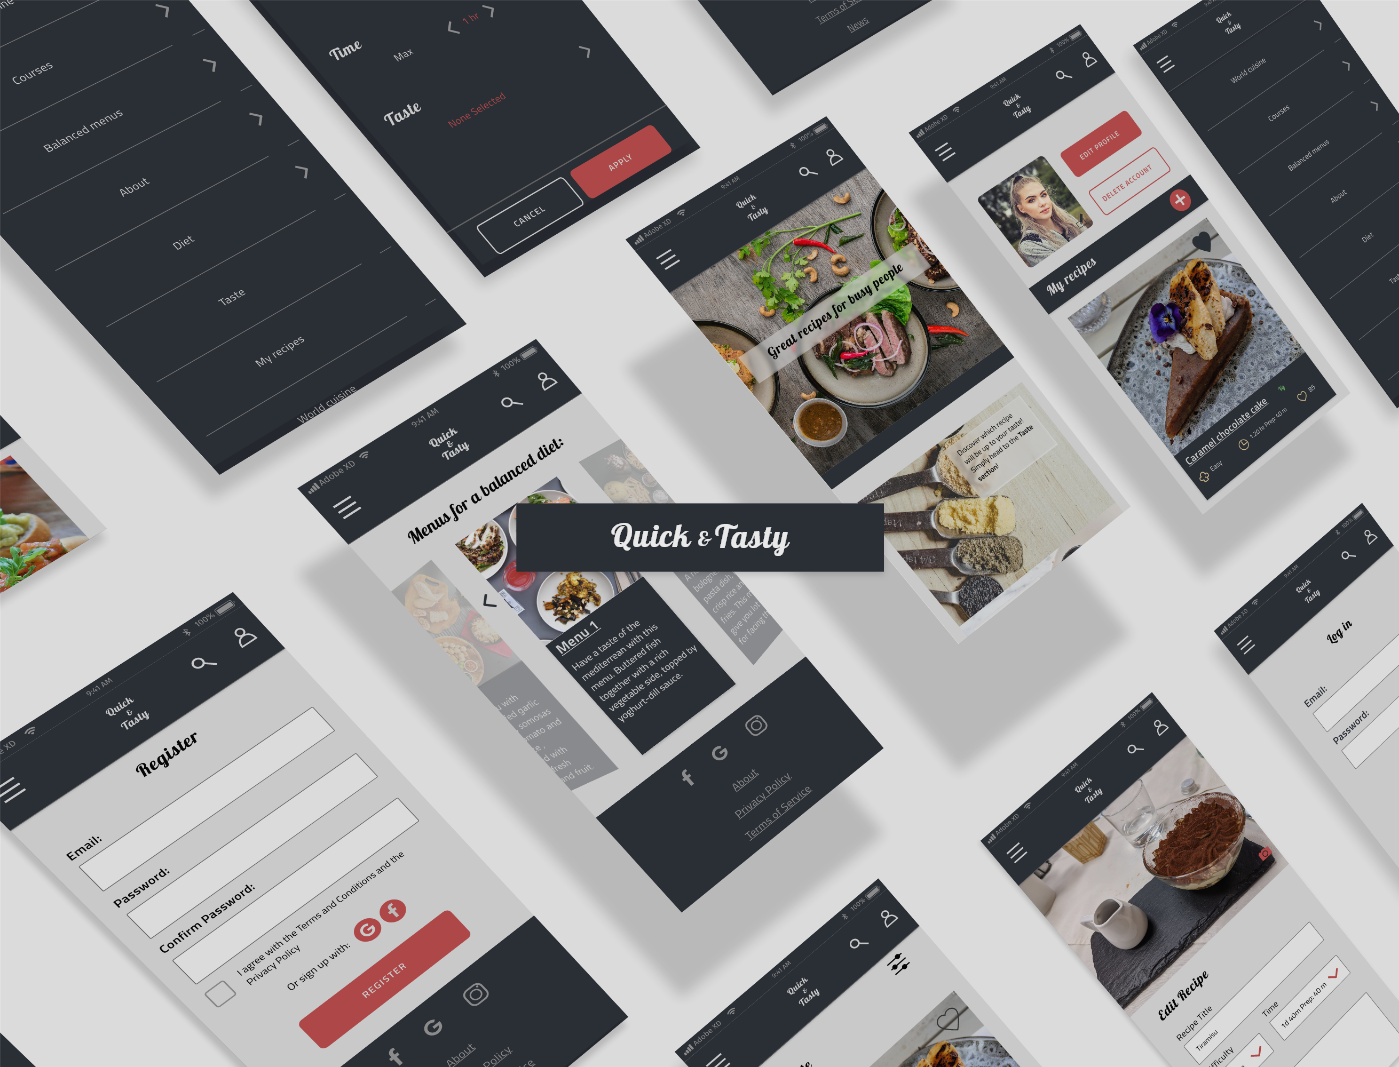
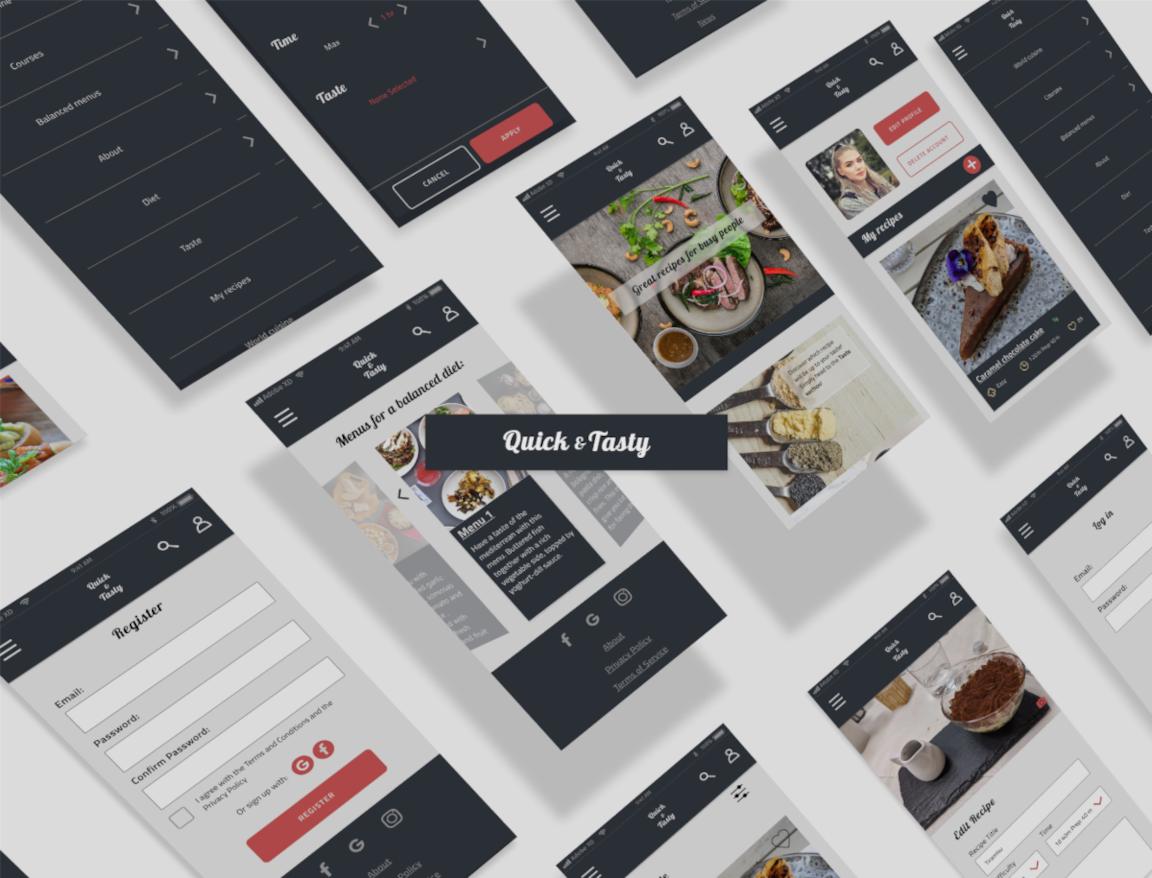
Edited the final Quick and Tasty image
Resized and centred in the page

diff --git a/quick-tasty.html b/quick-tasty.html
@@ -379,7 +379,7 @@
         <div>
           <picture>
             <source srcset="img/quick-tasty/case-study/Final-image@2x.png" media="(min-width:767px)">
-            <img src="img/quick-tasty/case-study/Final-image@1x.png" alt="Quick & Tasty app">
+            <img src="img/quick-tasty/case-study/Final-image@1x.png" alt="Quick & Tasty app" class="center">
           </picture>
         </div>
       </div>
